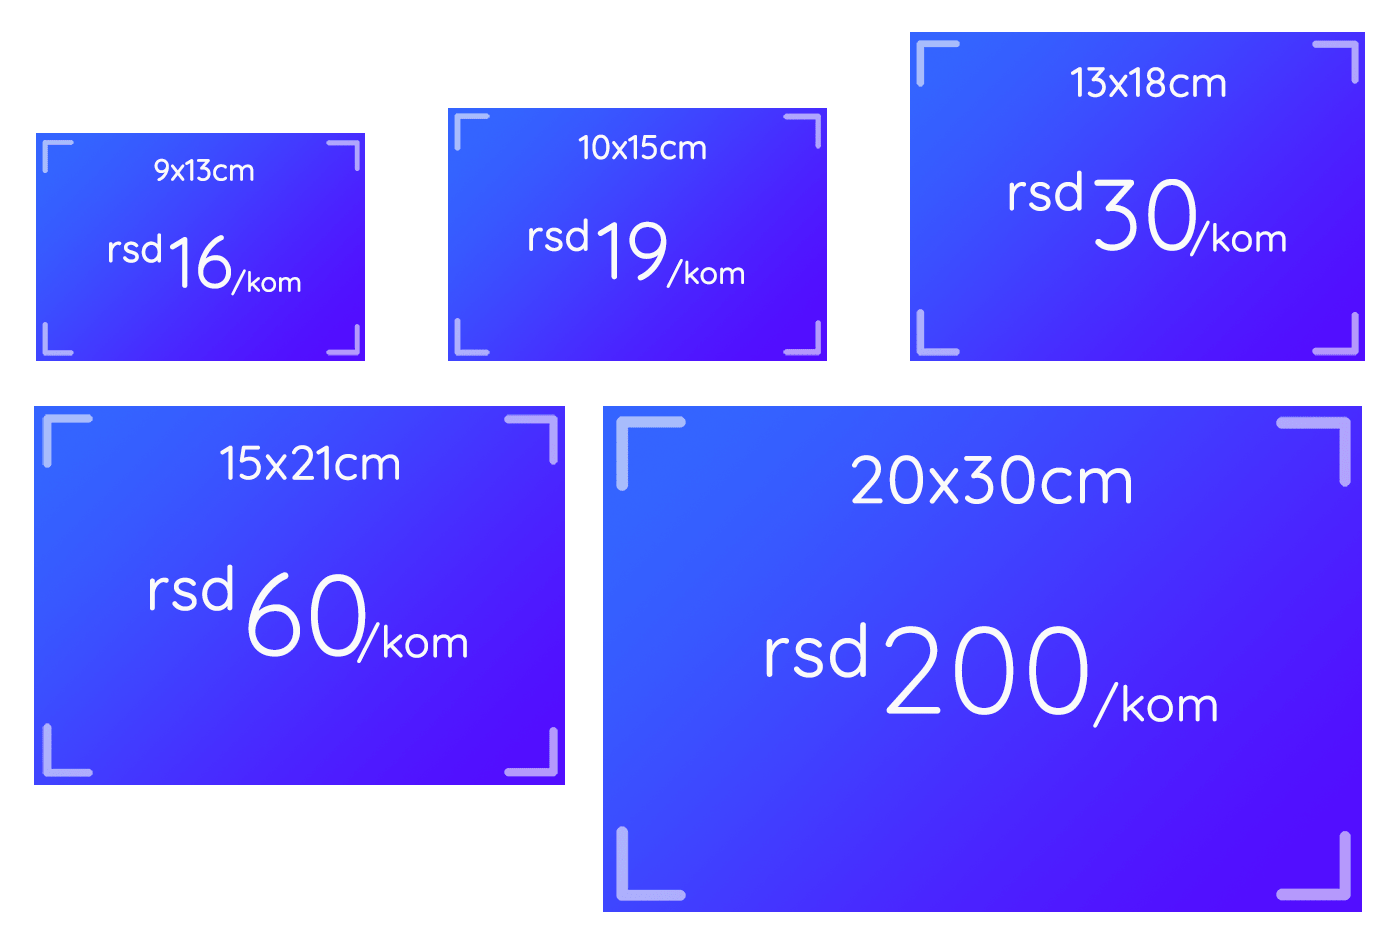
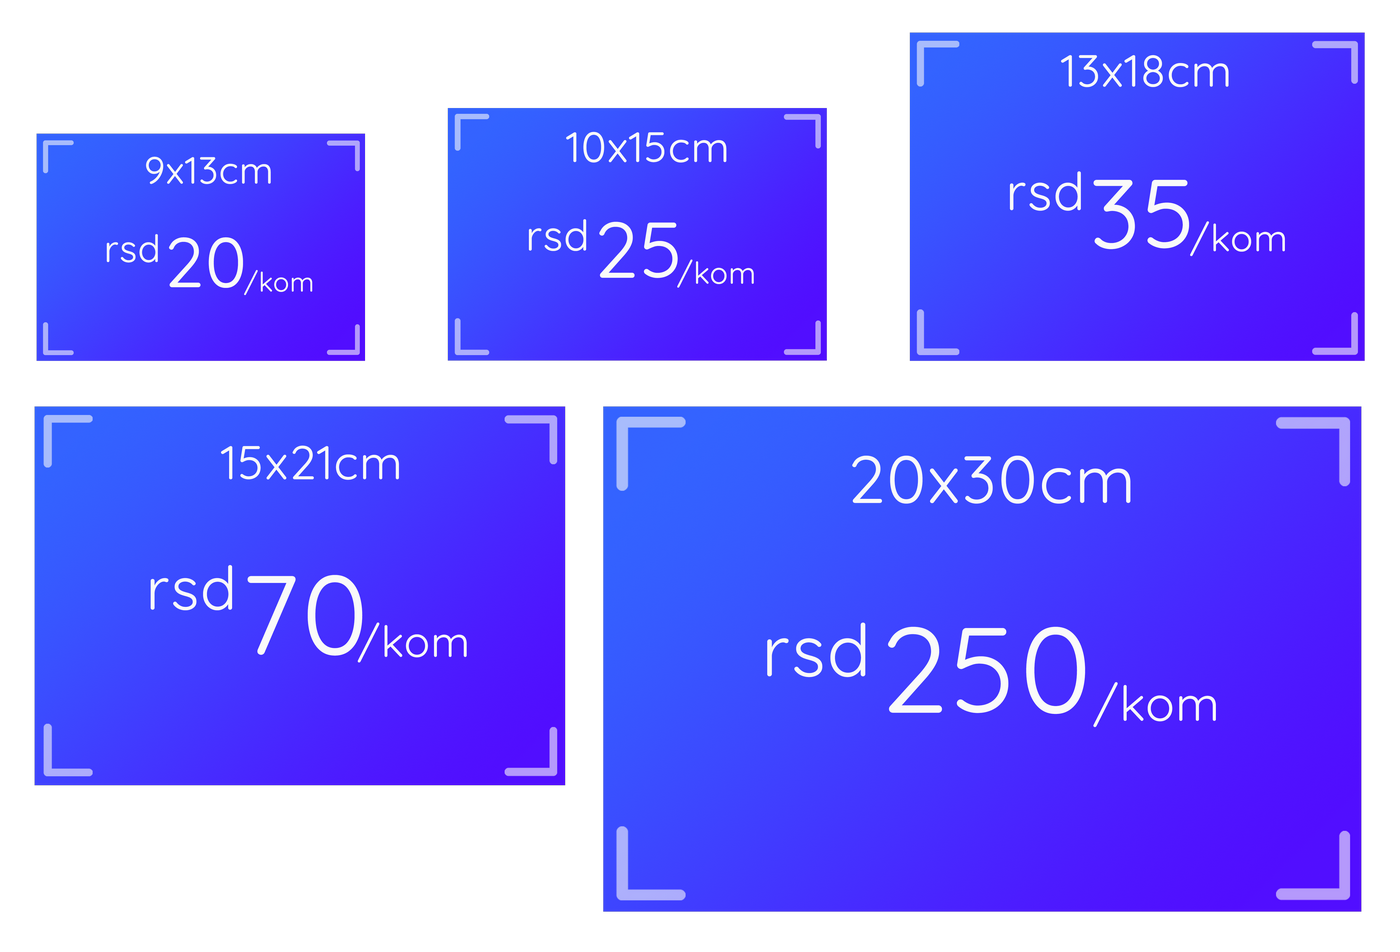
ui fixes for mobile

diff --git a/client/src/pages/FileUpload.js b/client/src/pages/FileUpload.js
@@ -1,24 +1,24 @@
 import React, { Fragment, useState, useEffect } from 'react';
 import axios from 'axios';
 
-import UserInfoFields from './UserInfoFields';
+import UserInfoFields from '../components/UserInfoFields';
 import splashImage from '../image_upload.png';
 import successImage from '../saved_success.png';
 import banner from '../photoprintbanner.png';
 import formatiImage from '../print-sizes-min.png';
 
 import SmartGallery from 'react-smart-gallery';
-import Spinner from './Spinner';
-import Dropzone from './Dropzone';
+import Spinner from '../layout/Spinner';
+import Dropzone from '../components/Dropzone';
 import resizeFile from '../helpers/resizeFile';
 
-import GallerySelector from './GallerySelector';
-import GalleryUploadProgress from './GalleryUploadProgress';
-import CeneModal from './CeneModal';
+import GallerySelector from '../components/GallerySelector';
+import GalleryUploadProgress from '../components/GalleryUploadProgress';
+import CeneModal from '../components/CeneModal';
 
 import M from 'materialize-css';
 
-import cene from './../helpers/cene';
+import cene from '../helpers/cene';
 
 export const FileUpload = () => {
   const [step, setStep] = useState(1);
@@ -257,48 +257,38 @@ export const FileUpload = () => {
         
         </div>)}
 
-        
-
         <form onSubmit={OnSubmit}>
           {step === 1 && (
-            <Fragment>
-              
-              
-  
-            
-            
-             
-  
-            
-              <div className="row center-align" style={{ marginTop: 10 }}>
-              <div className="input-field col s2 offset-s4">
-              <p
+            <Fragment>              
+            <div className="row" style={{ marginTop: 10 }}>
+              <div className="input-field col s6">
+              <p className="right"
             style={{ color: '#505050', fontFamily: 'Montserrat', fontSize: 18 }}
           >
-            Izaberite format
+            Izaberite format:
           </p>
               </div>
-                  <div className="input-field col s2">
-                    <select
-                      defaultValue={userInfo.format}
-                      onChange={e =>
-                        setUserInfo({ ...userInfo, format: e.target.value })
-                      }
-                    >
-                      <option value="9x13">9x13</option>
-                      {/* <option value="10x13,5">10x13,5</option> */}
-                      <option value="10x15">10x15</option>
-                      {/* <option value="11x15">11x15</option> */}
-                      <option value="13x18">13x18</option>
-                      {/* <option value="15x20">15x20</option> */}
-                      <option value="15x21">15x21</option>
-                      <option value="20x30">20x30</option>
-                      {/* <option value="24x30">24x30</option> */}
-                      {/* <option value="30x40">30x40</option> */}
-                      {/* <option value="30x45">30x45</option> */}
-                    </select>
-                    <label>Format</label>
-                  </div>
+              <div className="input-field col s5 m3 l2">
+                <select
+                  defaultValue={userInfo.format}
+                  onChange={e =>
+                    setUserInfo({ ...userInfo, format: e.target.value })
+                  }
+                >
+                  <option value="9x13">9x13</option>
+                  {/* <option value="10x13,5">10x13,5</option> */}
+                  <option value="10x15">10x15</option>
+                  {/* <option value="11x15">11x15</option> */}
+                  <option value="13x18">13x18</option>
+                  {/* <option value="15x20">15x20</option> */}
+                  <option value="15x21">15x21</option>
+                  <option value="20x30">20x30</option>
+                  {/* <option value="24x30">24x30</option> */}
+                  {/* <option value="30x40">30x40</option> */}
+                  {/* <option value="30x45">30x45</option> */}
+                </select>
+                <label>Format</label>
+              </div>
                   {/* <div className="input-field col s6">
                     <button
                       data-target="modal2"
@@ -307,25 +297,25 @@ export const FileUpload = () => {
                       Cene formata
                     </button>
                   </div> */}
-                </div>
+            </div>
 
-              <div className="row">
-                <div className="col s6 offset-s3 center-align">
-                  {!uploading && !uploadFinishedSuccessfully && (
-                    <Dropzone
-                      //setFilePreviews={setFilePreviews}
-                      files={files}
-                      setFiles={setFiles}
-                      loading={loading}
-                      setLoading={setLoading}
-                      setLoadProgress={setLoadProgress}
-                    />
-                  )}
-                </div>
+            <div className="row center-align">
+              <div className="col s12 m10 l8 offset-m1 offset-l2">
+                {!uploading && !uploadFinishedSuccessfully && (
+                  <Dropzone
+                    //setFilePreviews={setFilePreviews}
+                    files={files}
+                    setFiles={setFiles}
+                    loading={loading}
+                    setLoading={setLoading}
+                    setLoadProgress={setLoadProgress}
+                  />
+                )}
               </div>
+            </div>
               <div className="row" style={{ marginBottom: 0 }}>
                 {files[0] && (
-                  <div className="col s12">
+                  <div className="col s12" style={{marginBottom: 10}}>
                     <SmartGallery
                       rootStyle={{ margin: 'auto' }}
                       images={files.map((file, index) => {
@@ -373,10 +363,7 @@ export const FileUpload = () => {
                     </p>
                   </div>
                 )}
-              </div>
-              
-                
-              
+              </div>   
             </Fragment>
           )}
 
@@ -410,49 +397,54 @@ export const FileUpload = () => {
           )}
 
           <div className="row">
-            <div className="col s2 offset-s1">
+            <div className="col s3 m4">
               {step !== 1 && !uploadFinishedSuccessfully && !uploading && (
                 <button
-                  className="btn-flat"
-                  style={{ padding: 5 }}
+                  className="btn btn-flat right"
+                  style={{ marginTop: 44 }}               
                   onClick={e => prevStep(e)}
                 >
-                  <i className="material-icons left">arrow_back</i>
-                  <span className="hide-on-med-and-down">Nazad</span>
+                  <i className="material-icons left hide-on-med-and-down">
+                    navigate_before
+                  </i>
+                 Nazad
                 </button>
               )}
             </div>
-            <div className="col s4 offset-s2" style={{ color: 'grey' }}>
+            <div className="col s6 m4" style={{ color: 'grey' }}>
               {files[0] && (
-                <blockquote style={{ marginTop: 0 }}>
-                  <p style={{ marginBottom: 0, marginTop: 0 }}>
-                    Broj fotografija: {ukupnoKomada}
-                  </p>
-                  <p style={{ marginBottom: 0, marginTop: 0 }}>
-                    Cena po fotografiji: {racun.tarifa} rsd
-                  </p>
-                  <p style={{ marginBottom: 0, marginTop: 0 }}>
-                    Ukupno: {racun.ukupno} rsd{' '}
-                    {userInfo.preuzimanje === 'kurirska sluzba' && (
-                      <i>+ poštarina</i>
-                    )}
-                  </p>
-                </blockquote>
+                <div class="card indigo darken-2">
+                  <div class="card-content white-text">
+                    <p style={{ marginBottom: 0, marginTop: 0 }}>
+                      Broj fotografija: {ukupnoKomada}
+                    </p>
+                    <p style={{ marginBottom: 0, marginTop: 0 }}>
+                      Cena po fotografiji: {racun.tarifa} rsd
+                    </p>
+                    <p style={{ marginBottom: 0, marginTop: 0 }}>
+                      Ukupno: {racun.ukupno} rsd{' '}
+                      {userInfo.preuzimanje === 'kurirska sluzba' && (
+                        <i>+ poštarina</i>
+                      )}
+                    </p>
+                    </div>
+                </div>
               )}
             </div>
 
             <div className="col s3">
               {step !== 3 && (
                 <button
-                  className={`btn btn-large truncate ${
+                  className={`btn btn-large ${
                     !files[0] ? 'disabled' : ''
                   }`}
+                  style={{ marginTop: 35 }}  
                   onClick={e => nextStep(e)}
                 >
-                  <i className="material-icons right hide-on-med-and-down">
-                    arrow_forward
-                  </i>
-                  Dalje
+                   <i className="material-icons right hide-on-med-and-down">
+                    navigate_next
+                  </i>       
+                Dalje
                 </button>
               )}
               {step === 3 && !uploading && !uploadFinishedSuccessfully && (
@@ -461,6 +453,7 @@ export const FileUpload = () => {
                     !userFieldsValid ? 'disabled' : ''
                   }`}
                   data-target="modal1"
+                  style={{ marginTop: 35 }}
                 >
                   Pošalji
                   <i className="material-icons right hide-on-med-and-down">
@@ -500,7 +493,7 @@ export const FileUpload = () => {
 
           {resultMessage.status === 'success' && (
             <div className="row">
-              <div className="col s2 offset-s4 center-align">
+              <div className="col s6 m4 l3 offset-m2 offset-l3">
                 {' '}
                 <img
                   src={successImage}
@@ -509,8 +502,8 @@ export const FileUpload = () => {
                   height="230"
                 ></img>
               </div>
-              <div className="col s4 indigo-text" style={{ marginTop: 20 }}>
-                <i>{resultMessage.message}</i>
+              <div className="col s6 m4 l4 indigo-text" style={{ marginTop: 20 }}>
+                <p className="left"><i>{resultMessage.message}</i></p>
               </div>
             </div>
           )}

diff --git a/client/src/App.js b/client/src/App.js
@@ -1,12 +1,12 @@
 import React, { useState, useEffect } from 'react';
-import FileUpload from './components/FileUpload';
-import Overview from './components/Overview';
-import Nav from './components/Nav';
-import Login from './components/Login';
-import OrderDetails from './components/OrderDetails';
+import FileUpload from './pages/FileUpload';
+import Overview from './pages/Overview';
+import Nav from './layout/Nav';
+import Login from './pages/Login';
+import OrderDetails from './pages/OrderDetails';
 import { BrowserRouter as Router, Switch, Route } from 'react-router-dom';
 import UserContext from './context/UserContext';
-import Footer from './components/Footer';
+import Footer from './layout/Footer';
 
 function App() {
   const [userData, setUserData] = useState({

diff --git a/client/src/pages/Overview.js b/client/src/pages/Overview.js
@@ -1,8 +1,8 @@
 import React, { useState, useEffect, Fragment } from 'react';
-import useFetchOrders from './useFetchOrders';
-import Order from './Order';
-import OrdersPagination from './OrdersPagination';
-import Spinner from './Spinner';
+import useFetchOrders from '../components/useFetchOrders';
+import Order from '../components/Order';
+import OrdersPagination from '../components/OrdersPagination';
+import Spinner from '../layout/Spinner';
 import { useHistory } from 'react-router-dom';
 
 import M from 'materialize-css';

diff --git a/client/src/helpers/cene.js b/client/src/helpers/cene.js
@@ -1,12 +1,12 @@
 const cene = {
-  '9x13': [16, 15, 14, 11],
+  '9x13': [20, 19, 18, 16],
   '10x13,5': [18, 17, 16, 14],
-  '10x15': [19, 18, 17, 15],
+  '10x15': [25, 23, 21, 20],
   '11x15': [20, 19, 18, 17],
-  '13x18': [30, 29, 28, 26],
+  '13x18': [35, 30, 27, 25],
   '15x20': [60, 55, 50, 40],
-  '15x21': [60, 55, 50, 40],
-  '20x30': [200, 100, 100, 100],
+  '15x21': [70, 55, 50, 40],
+  '20x30': [250, 150, 120, 110],
   '24x30': [220, 120, 120, 120],
   '30x40': [320, 185, 185, 185],
   '30x45': [350, 210, 210, 210]

diff --git a/utils/cene.js b/utils/cene.js
@@ -1,12 +1,12 @@
 const cene = {
-  '9x13': [16, 15, 14, 11],
+  '9x13': [20, 19, 18, 16],
   '10x13,5': [18, 17, 16, 14],
-  '10x15': [19, 18, 17, 15],
+  '10x15': [25, 23, 21, 20],
   '11x15': [20, 19, 18, 17],
-  '13x18': [30, 29, 28, 26],
+  '13x18': [35, 30, 27, 25],
   '15x20': [60, 55, 50, 40],
-  '15x21': [60, 55, 50, 40],
-  '20x30': [200, 100, 100, 100],
+  '15x21': [70, 55, 50, 40],
+  '20x30': [250, 150, 120, 110],
   '24x30': [220, 120, 120, 120],
   '30x40': [320, 185, 185, 185],
   '30x45': [350, 210, 210, 210]
